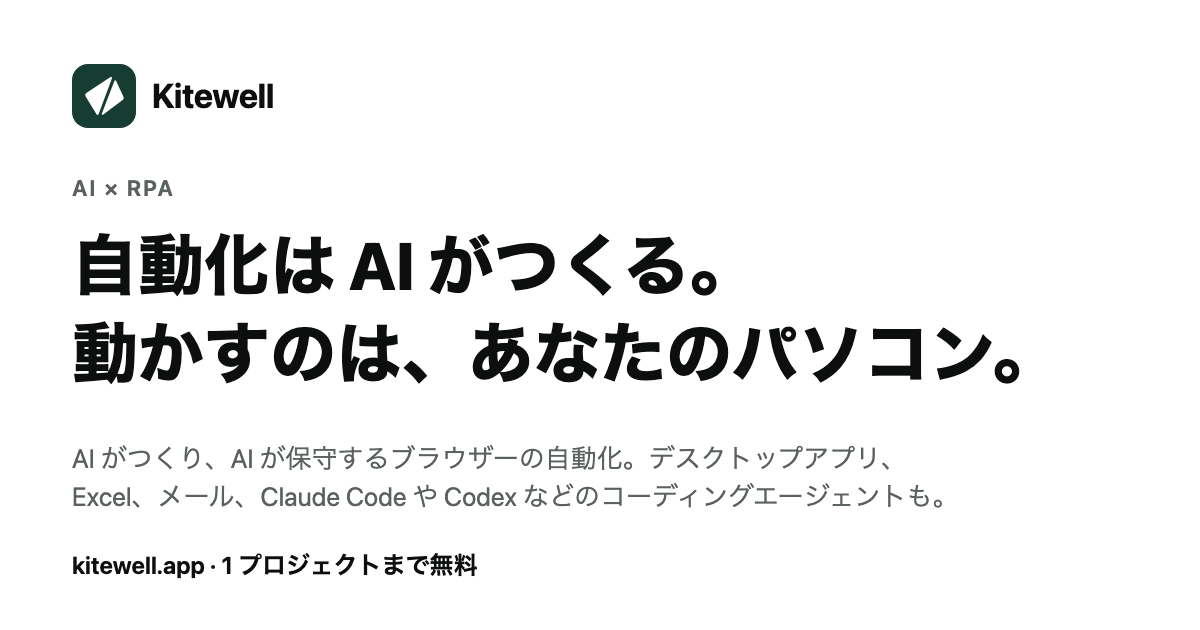
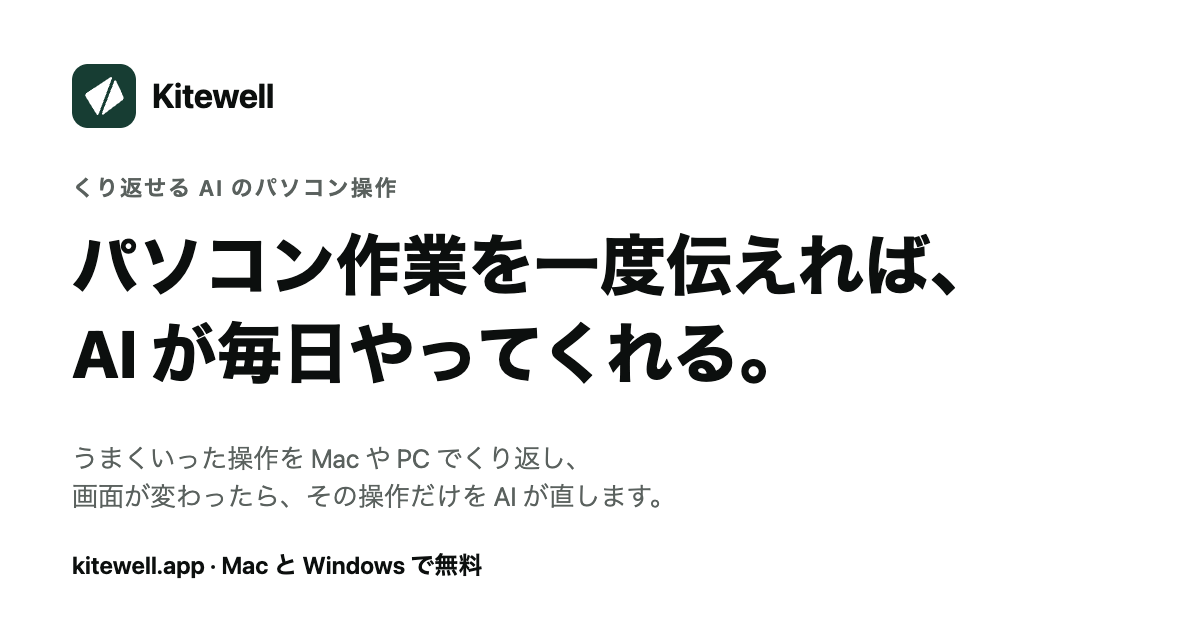
Share the new headline on social cards and the README
Link previews and the repository showed the old headline and the
74-second film. They now carry the home page's promise, and the README
links to the loop and to the coding agents page.

diff --git a/README.md b/README.md
@@ -9,17 +9,16 @@
   </a>
 </p>
 
-<h1 align="center">AI builds the automation.<br>Your computer runs it.</h1>
+<h1 align="center">Describe a computer chore once.<br>AI does it every day.</h1>
 
 <p align="center">
-  Describe the job, and AI builds the automation in a browser you can watch,
-  then fixes it when the site changes. Desktop apps, Excel, email, and coding
-  agents like Claude Code run the same way: on a schedule or a webhook, with
-  your OK where it matters. Follow it from your phone, wherever you are.
+  Kitewell's AI does the job in a browser or desktop app while you watch,
+  keeps the clicks that worked, and repeats them on your schedule. When a
+  site changes, it fixes just that click.
 </p>
 
 <p align="center">
-  <a href="https://kitewell.app/#film"><strong>▶ Watch the 74-second film</strong></a> ·
+  <a href="https://kitewell.app/#film"><strong>▶ See it work (18 s)</strong></a> ·
   <a href="https://kitewell.app/download/">Download</a> ·
   <a href="https://kitewell.app/docs/getting-started/">Get started</a> ·
   <a href="https://kitewell.app/docs/">Docs</a> ·
@@ -49,7 +48,7 @@ request in plain words, then everything the AI and the app did.
       the invoices it found until you say go.</p>
     </td>
     <td width="50%" valign="top">
-      <a href="https://kitewell.app/"><img src="website/public/videos/proof/agents-en.webp" alt="Kitewell's chat proposes a nightly workflow where Claude Code fixes failing tests and Codex reviews the change. Real recording, 2x speed."></a>
+      <a href="https://kitewell.app/coding-agents/"><img src="website/public/videos/proof/agents-en.webp" alt="Kitewell's chat proposes a nightly workflow where Claude Code fixes failing tests and Codex reviews the change. Real recording, 2x speed."></a>
       <p><strong>Coding agents.</strong> Asked to have Claude Code fix a demo
       repository's failing tests every night and Codex review the change, the
       assistant proposes the scheduled workflow and runs it. The run waits
